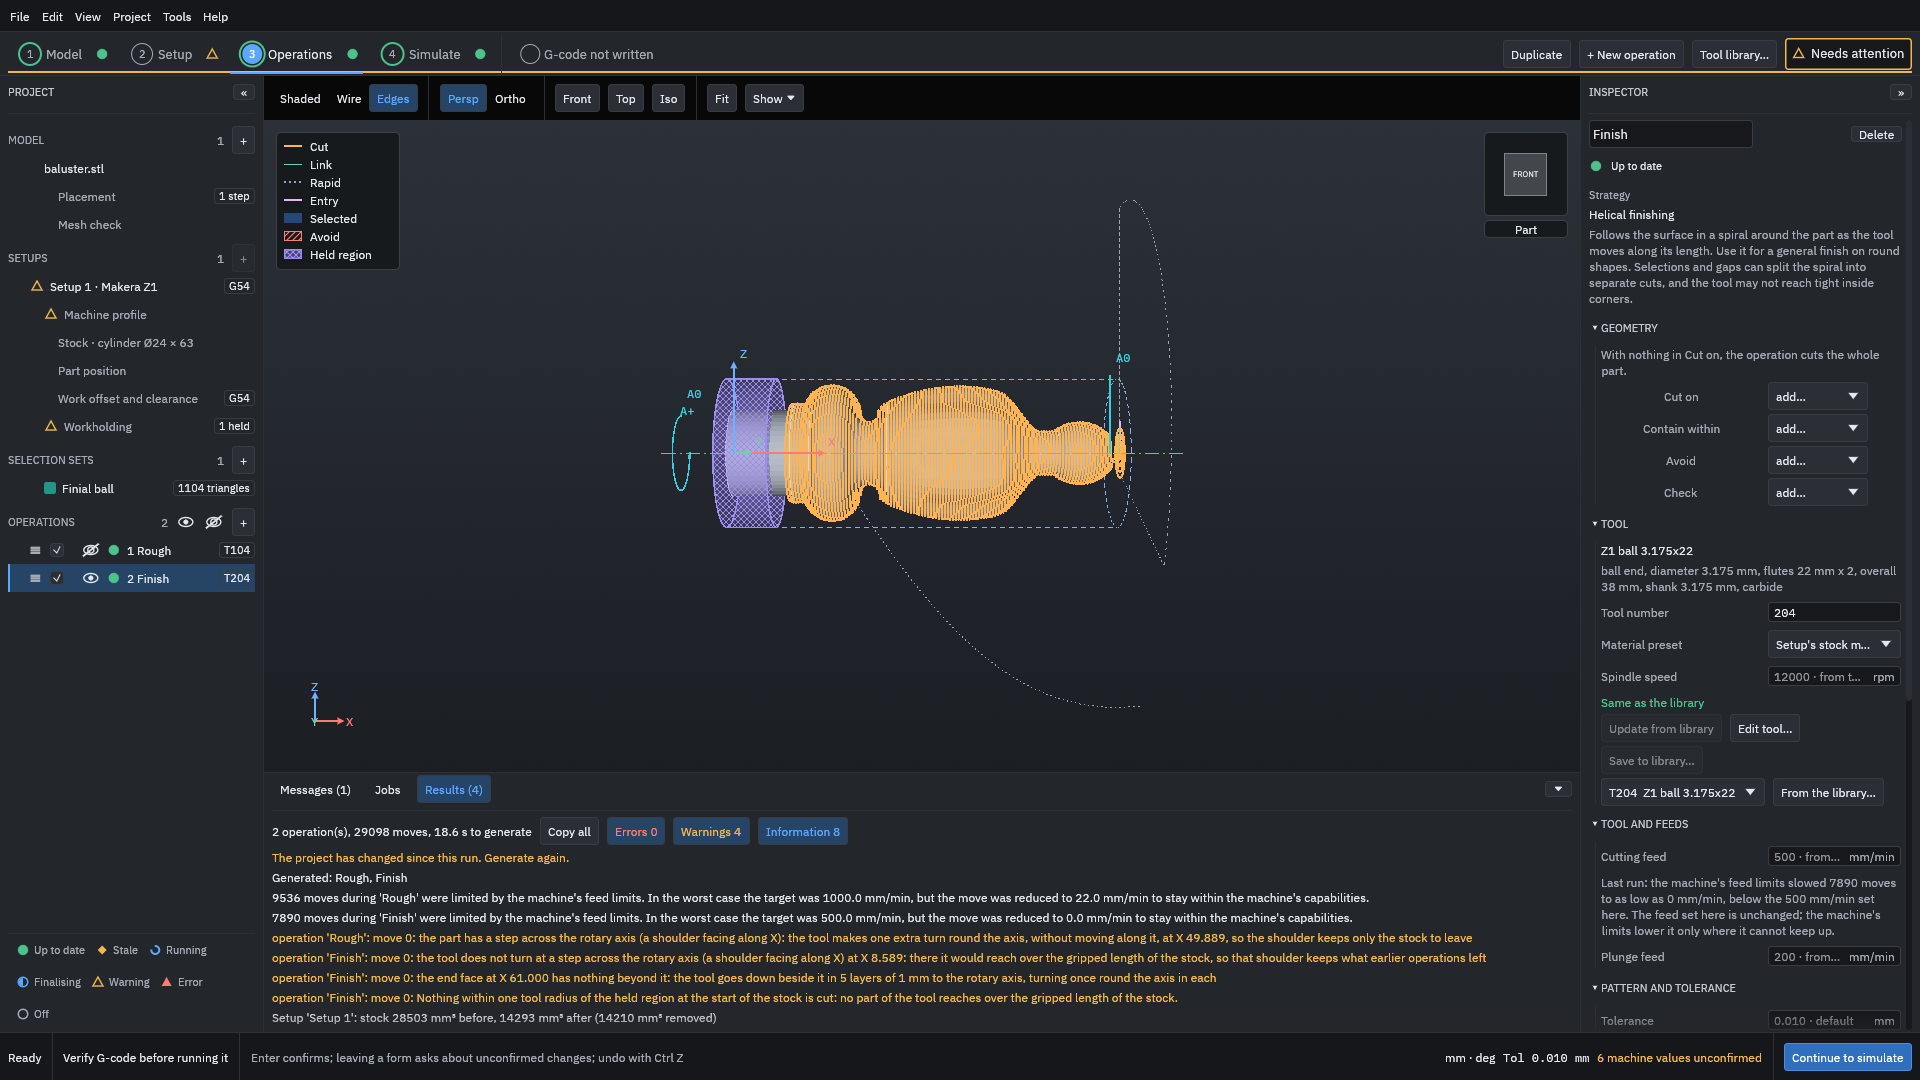
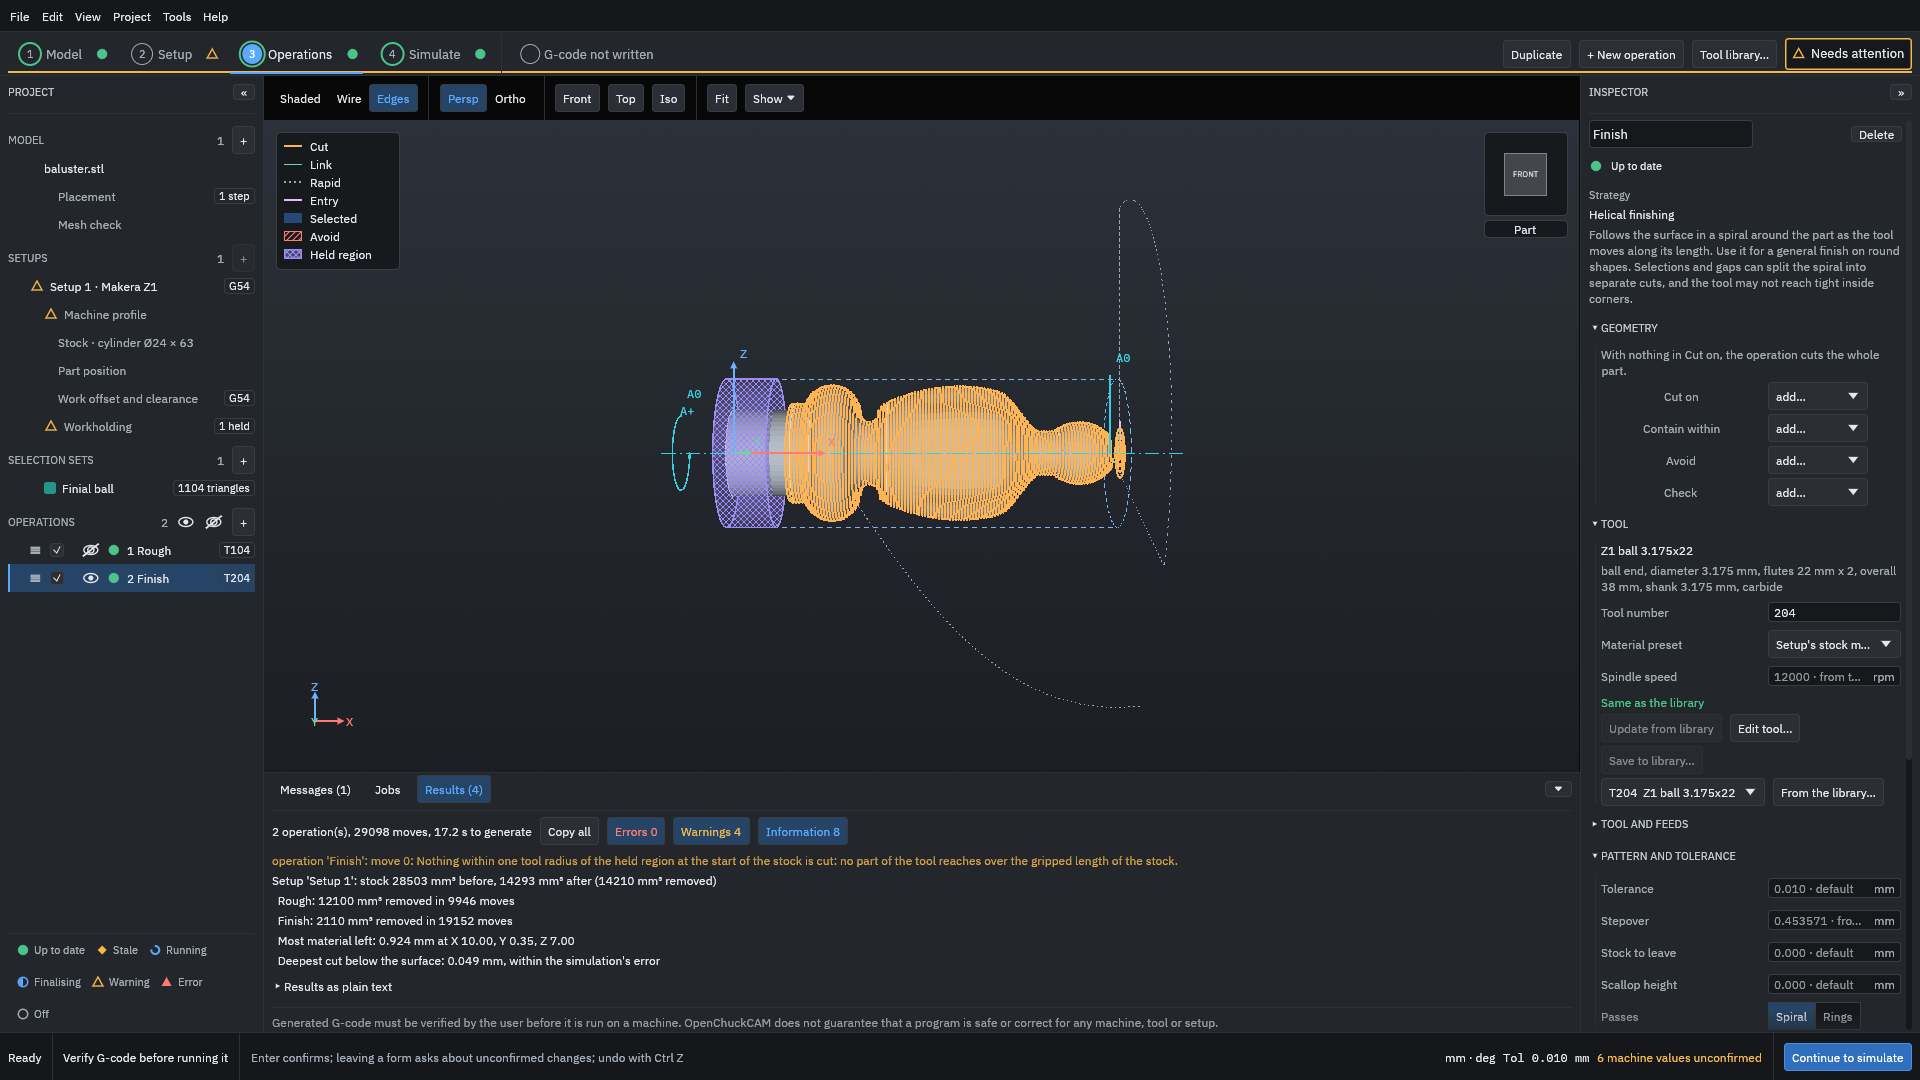
Lane EXAMPLES-C: region example recaptured: path hidden before generating (#607), feed-limit lines kept out of the screens (#600)
Claude-Session: https://claude.ai/code/session_017vEio486gvooQqVzoMBL6x

Changed region(s): [[0.125, 0.7944, 0.75, 0.9472], [0.8125, 0.7639, 1.0, 0.9472]]

diff --git a/user-docs/tools/examples/region.py b/user-docs/tools/examples/region.py
@@ -8,6 +8,11 @@ layout of the build they were taken with, at 1920 x 1080; change them and the pa
 GENERATE = 75  # seconds; the Finish limited by an avoid set takes the longest, about 40 s here
 
 
+def results_end(cap):
+    """The Results list scrolled to its end: the volumes, past the feed-limit lines (#600)."""
+    cap.scroll(900, 950, 12)
+
+
 def run(cap, work):
     cap.click(243, 460, 2)                     # SELECTION SETS +: starts picking
     cap.click(577, 98, 2)                      # Front view
@@ -17,16 +22,20 @@ def run(cap, work):
     cap.click(1787, 277, 2)                    # Save as new set
     cap.key("Escape")                          # stop picking
     cap.click(148, 578, 2)                     # 2 Finish
+    cap.click(90, 550, 2)                      # hide 1 Rough's path, before generating (#607)
     cap.click(1855, 1057, GENERATE)            # Generate: the whole part, as in the tutorial
-    cap.click(90, 550, 2)                      # hide 1 Rough's path
+    cap.click(1640, 823, 1)                    # fold TOOL AND FEEDS: its feed-limit note is under review (#600)
     cap.click(452, 789, 2)                     # Results
+    results_end(cap)
     cap.shot("02-before")
     cap.click(1817, 396, 1.5)                  # Cut on: add...
     cap.click(1807, 429, 2)                    # Finial ball
     cap.click(1855, 1057, GENERATE)
+    results_end(cap)
     cap.shot("03-cut-on")
     cap.click(1834, 397, 2)                    # the x on Finial ball: Cut on is empty again
     cap.click(1817, 460, 1.5)                  # Avoid: add...
     cap.click(1807, 493, 2)                    # Finial ball
     cap.click(1855, 1057, GENERATE)
+    results_end(cap)
     cap.shot("04-avoid")

diff --git a/user-docs/src/examples/limit-to-a-region.md b/user-docs/src/examples/limit-to-a-region.md
@@ -46,12 +46,12 @@ A path limited to a selection stops at the edge between a selected surface and a
 ## 2. Before: the whole part
 
 1. In the project panel, click **2 Finish**.
-2. Click **Generate** at the bottom right, and wait for the operations to turn green.
-3. Click the eye beside **1 Rough** to hide its path, so the view shows the finishing path only.
-4. Under the view, click **Results**.
+2. Click the eye beside **1 Rough** to hide its path, so the view shows the finishing path only. Hiding a path changes the view only.
+3. Click **Generate** at the bottom right, and wait for the operations to turn green.
+4. Under the view, click **Results**, and scroll the list to its end.
 
 <figure>
-<a href="images/region/02-before.png"><img src="images/region/02-before.png" width="1920" height="1080" alt="The Front view with the helical finishing path drawn in orange over the whole baluster from the collar to the finial; the Results tab reads 2 operation(s), 29098 moves, 18.6 s to generate, and Setup 'Setup 1': stock 28503 mm³ before, 14293 mm³ after (14210 mm³ removed)."></a>
+<a href="images/region/02-before.png"><img src="images/region/02-before.png" width="1920" height="1080" alt="The Front view with the helical finishing path drawn in orange over the whole baluster from the collar to the finial; the Results tab reads 2 operation(s), 29098 moves, and Setup Setup 1: stock 28503 mm³ before, 14293 mm³ after (14210 mm³ removed); Rough: 12100 mm³ removed in 9946 moves; Finish: 2110 mm³ removed in 19152 moves."></a>
 <figcaption><b>Figure 2.</b> The finish over the whole part: 29,098 moves for both operations, of which the roughing is 9,946.</figcaption>
 </figure>
 
@@ -61,8 +61,8 @@ A path limited to a selection stops at the edge between a selected surface and a
 2. Click **Generate**.
 
 <figure>
-<a href="images/region/03-cut-on.png"><img src="images/region/03-cut-on.png" width="1920" height="1080" alt="The Front view with the finishing path only on the ball of the finial; the Inspector shows Cut on: Finial ball; the Results tab reads 2 operation(s), 12182 moves, Generated: Finish, Reused (nothing they depend on changed): Rough, and Rough: 12100 mm³ removed in 9946 moves."></a>
-<figcaption><b>Figure 3.</b> With <b>Cut on</b> set, the finish covers the ball and stops at its edge. Only the finish was generated again; the roughing was reused.</figcaption>
+<a href="images/region/03-cut-on.png"><img src="images/region/03-cut-on.png" width="1920" height="1080" alt="The Front view with the finishing path only on the ball of the finial; the Inspector shows Cut on: Finial ball; the Results tab reads 2 operation(s), 12182 moves, and stock 28503 mm³ before, 16200 mm³ after (12303 mm³ removed); Finish: 204 mm³ removed in 2236 moves."></a>
+<figcaption><b>Figure 3.</b> With <b>Cut on</b> set, the finish covers the ball and stops at its edge.</figcaption>
 </figure>
 
 The finish now has 2,236 moves instead of about 19,150, and removes 204 mm³. The rest of the part keeps what the roughing left, 0.3 mm of stock to leave.
@@ -74,7 +74,7 @@ The finish now has 2,236 moves instead of about 19,150, and removes 204 mm³. Th
 3. Click **Generate**.
 
 <figure>
-<a href="images/region/04-avoid.png"><img src="images/region/04-avoid.png" width="1920" height="1080" alt="The Front view with the finishing path over the whole baluster except the ball, which is drawn in the set's colour; the Inspector shows Avoid: Finial ball with Cut short chosen and Warn only and Ignore beside it; the Results tab reads 2 operation(s), 84864 moves, 35.7 s to generate, and stock 28503 mm³ before, 14436 mm³ after (14067 mm³ removed)."></a>
+<a href="images/region/04-avoid.png"><img src="images/region/04-avoid.png" width="1920" height="1080" alt="The Front view with the finishing path over the whole baluster except the ball, which is drawn in the set's colour; the Inspector shows Avoid: Finial ball with Cut short chosen and Warn only and Ignore beside it; the Results tab reads 2 operation(s), 84864 moves, and stock 28503 mm³ before, 14436 mm³ after (14067 mm³ removed); Finish: 1968 mm³ removed in 74918 moves."></a>
 <figcaption><b>Figure 4.</b> With the ball in <b>Avoid</b>, the finish stops short of it. The ball keeps the roughing's stock to leave.</figcaption>
 </figure>
 
